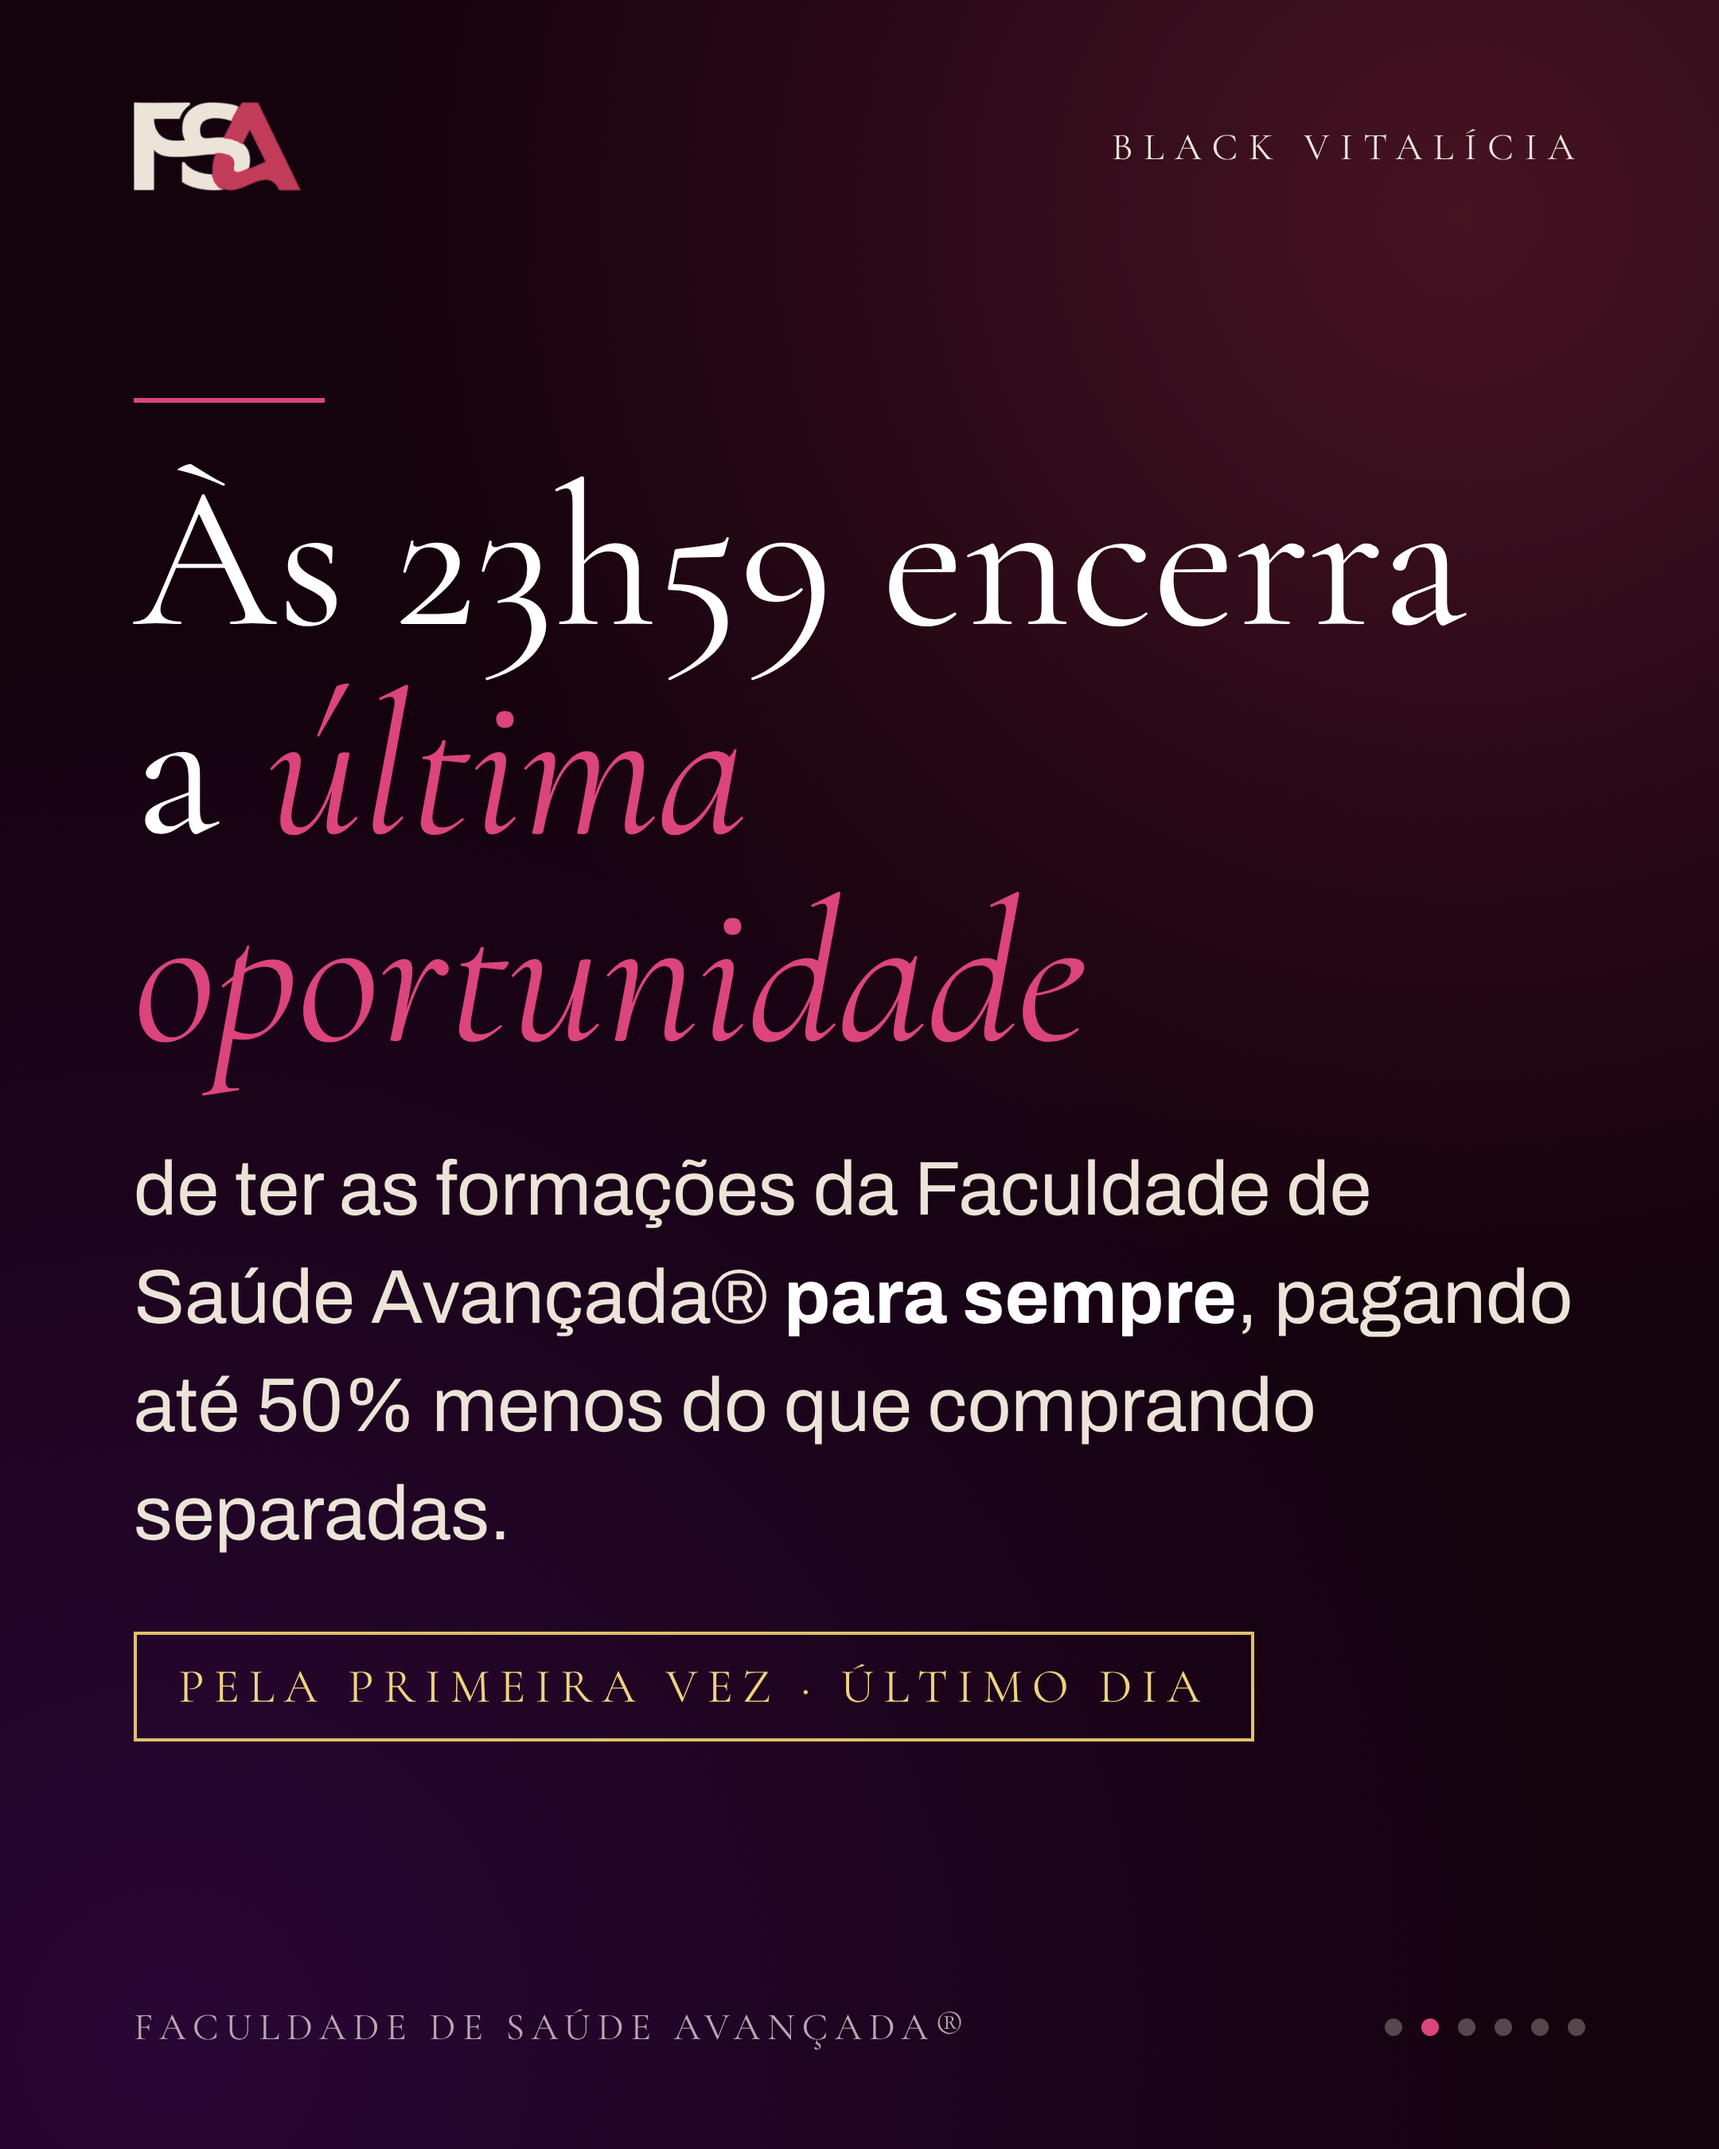
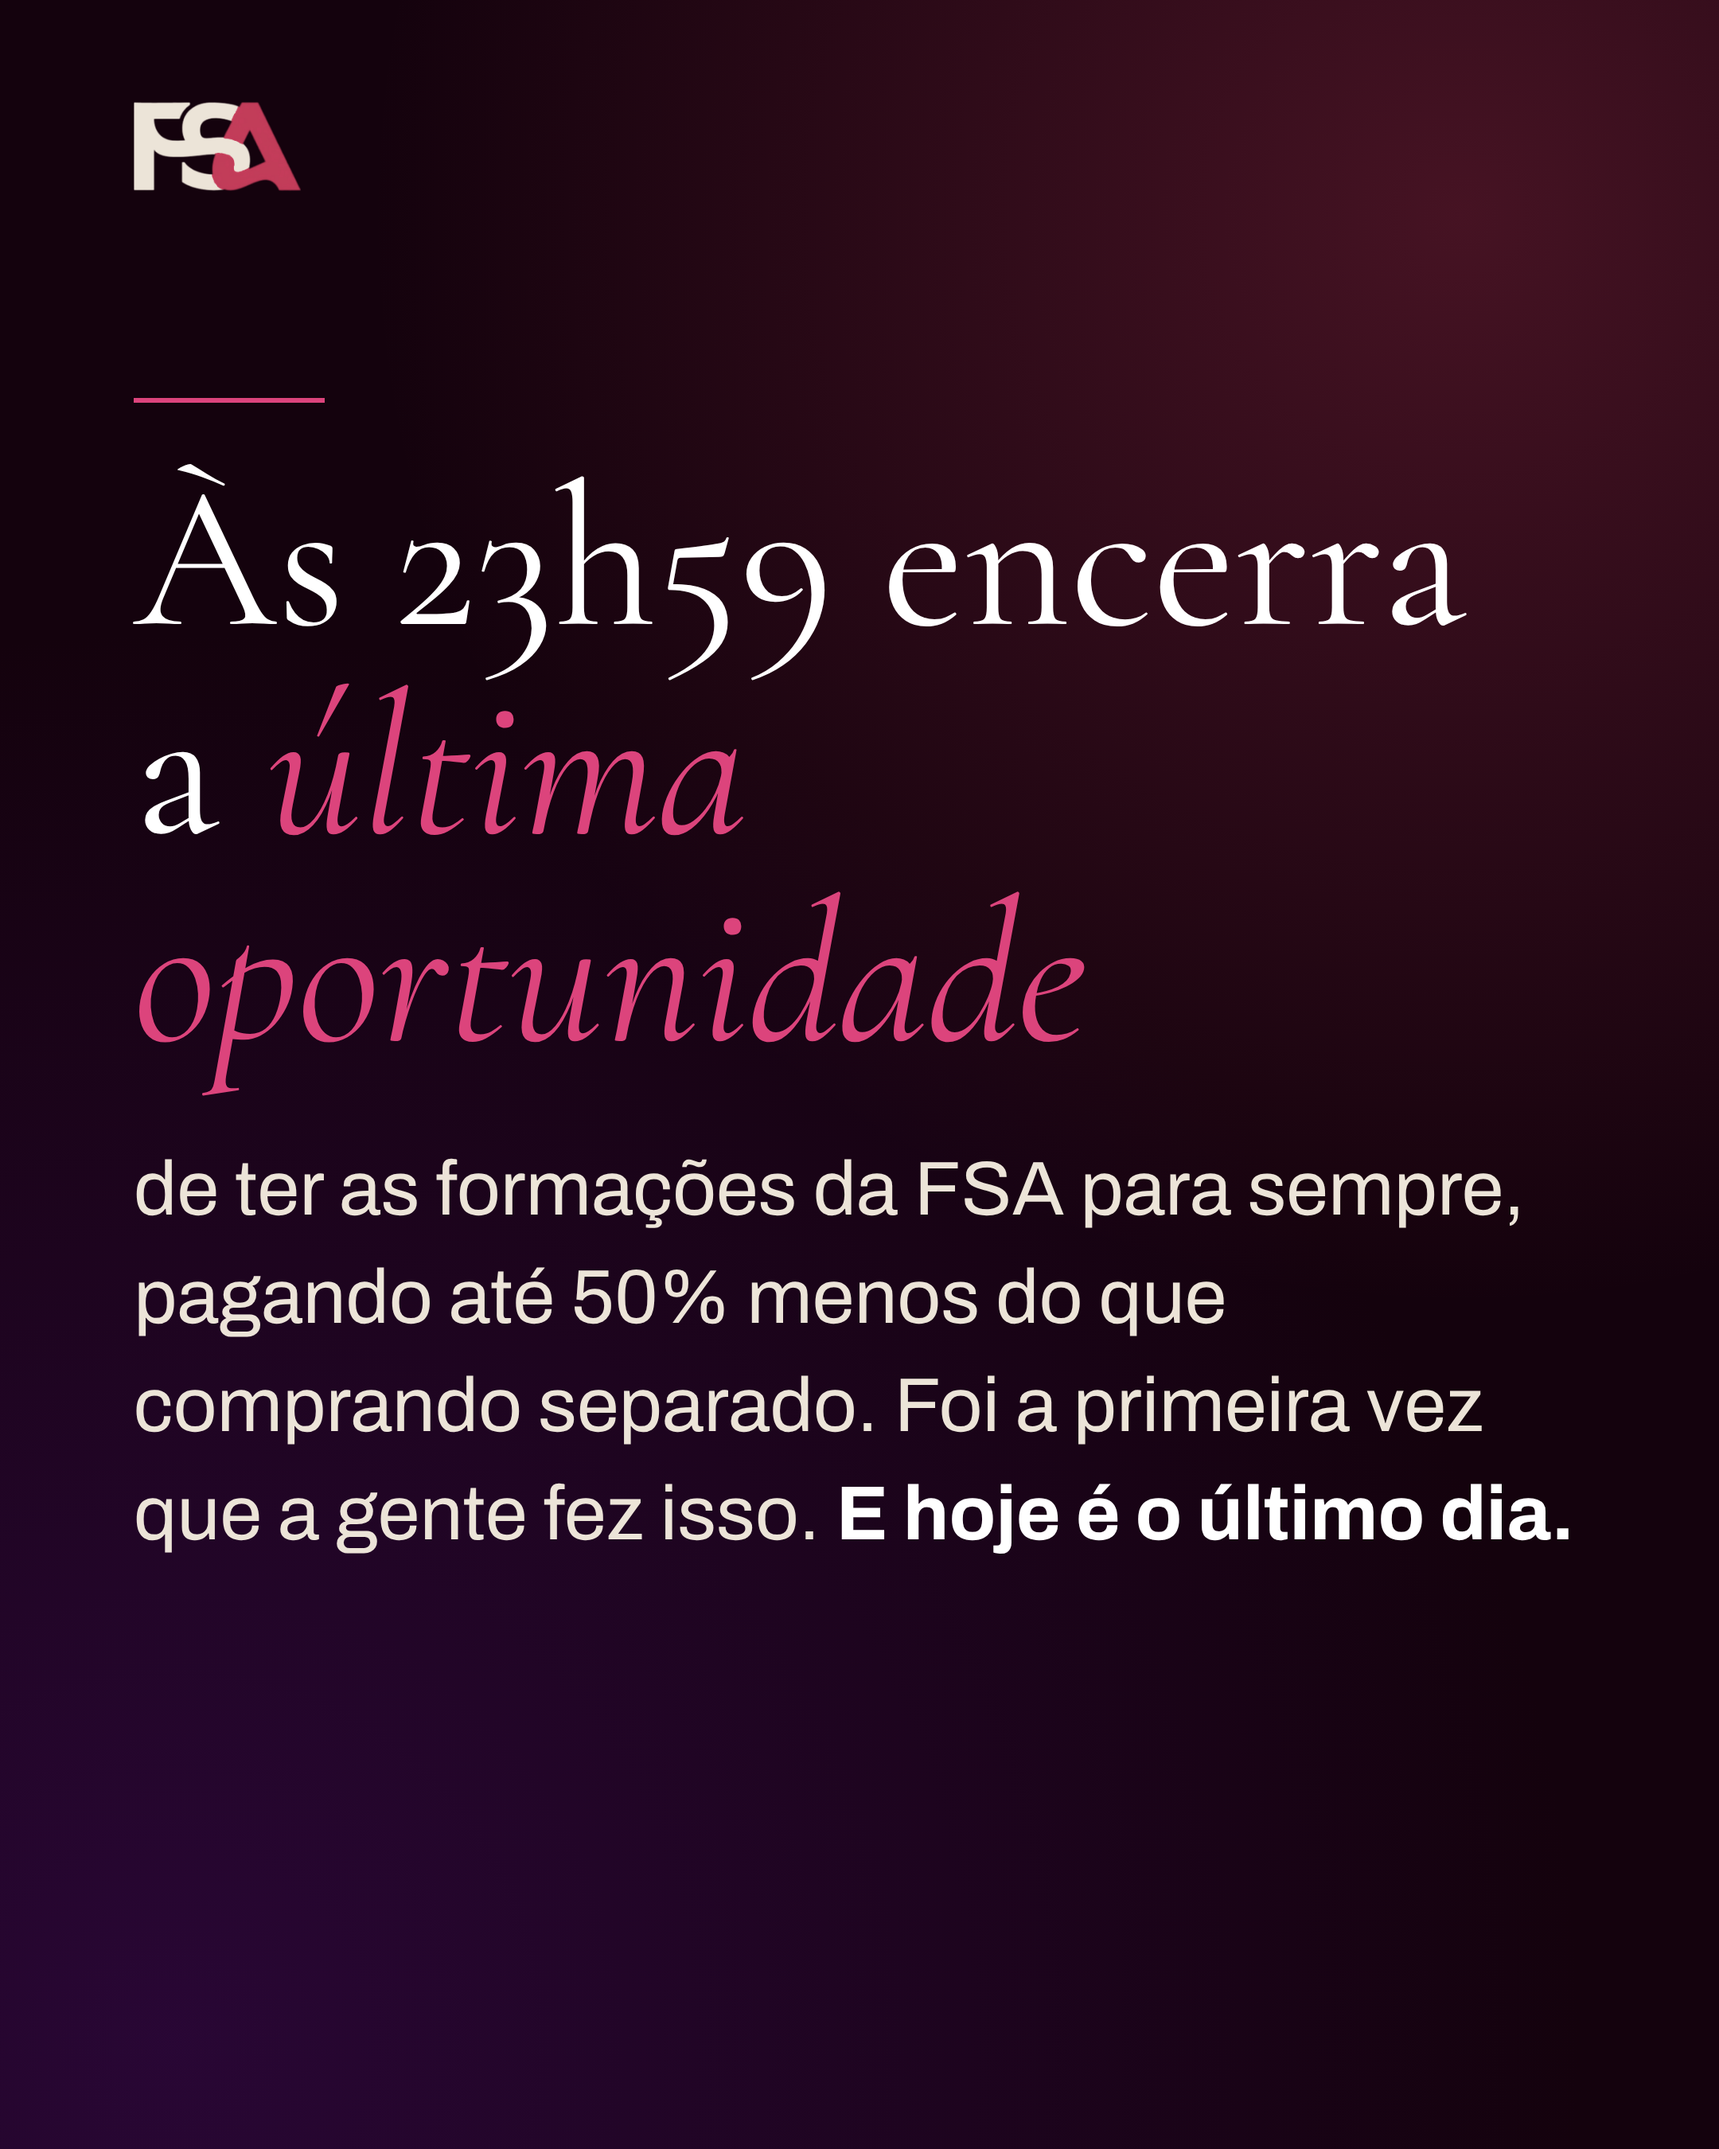
Carrossel último dia v2: sem textos pequenos, capa em destaque, textos mais humanos, CTA comenta BLACK FSA
Claude-Session: https://claude.ai/code/session_01KgesPtUiFaTyPjQzLX5smy

diff --git a/fsa/campanha-black/carrossel-ultimo-dia/v2/c.html b/fsa/campanha-black/carrossel-ultimo-dia/v2/c.html
@@ -23,16 +23,17 @@ p b{color:#fff}
 .dots{display:flex;gap:12px}.dots span{width:11px;height:11px;border-radius:50%;background:rgba(236,228,216,.3)}.dots span.on{background:#DC447C}
 .line{width:120px;height:3px;background:#DC447C;margin:0 0 34px}
 .txt{bottom:auto!important;top:250px}.txt h1{font-size:128px}.txt p{font-size:48px}
+.capa h1{-webkit-text-stroke:3.2px #fff;paint-order:stroke fill;letter-spacing:.01em}.capa h1 i{-webkit-text-stroke:3.2px #DC447C}
 </style></head><body>
-<div class="s"><div class="img" style="height:760px;background-image:url(cena.jpg)"></div><div class="top"><img src="logo-fsa-escuro.png"><span>Black Vitalícia</span></div>
-<div class="in big"><div class="pill">ATENÇÃO</div><h1>Hoje, às 23h59,<br>o nosso vitalício<br><i>morre.</i></h1></div><div class="foot"><span>Faculdade de Saúde Avançada®</span><div class="dots"><span class="on"></span><span class=""></span><span class=""></span><span class=""></span><span class=""></span><span class=""></span></div></div></div>
-<div class="s"><div class="top"><img src="logo-fsa-escuro.png"><span>Black Vitalícia</span></div><div class="in txt"><div class="line"></div><h1>Às 23h59 encerra<br>a <i>última oportunidade</i></h1>
-<p>de ter as formações da Faculdade de Saúde Avançada® <b>para sempre</b>, pagando até 50% menos do que comprando separadas.</p><div class="gold">Pela primeira vez · Último dia</div></div><div class="foot"><span>Faculdade de Saúde Avançada®</span><div class="dots"><span class=""></span><span class="on"></span><span class=""></span><span class=""></span><span class=""></span><span class=""></span></div></div></div>
-<div class="s"><div class="top"><img src="logo-fsa-escuro.png"><span>Black Vitalícia</span></div><div class="in txt"><div class="line"></div><h1>Amanhã,<br>o relógio <i>volta.</i></h1>
-<p>As formações voltam ao acesso de <b>1 ou 2 anos</b>. Quando o prazo acaba, estudar de novo significa comprar de novo.</p><div class="gold">A partir de domingo, 01/11</div></div><div class="foot"><span>Faculdade de Saúde Avançada®</span><div class="dots"><span class=""></span><span class=""></span><span class="on"></span><span class=""></span><span class=""></span><span class=""></span></div></div></div>
-<div class="s"><div class="img" style="height:700px;background-image:url(foto-aula.jpg)"></div><div class="top"><img src="logo-fsa-escuro.png"><span>Black Vitalícia</span></div>
-<div class="in"><h1>Sem prazo<br><i>correndo.</i></h1><p style="font-size:44px">Você garante hoje e começa quando puder. Em janeiro, um módulo por mês, ou daqui a três anos, <b>quando aquela paciente chegar.</b></p></div><div class="foot"><span>Faculdade de Saúde Avançada®</span><div class="dots"><span class=""></span><span class=""></span><span class=""></span><span class="on"></span><span class=""></span><span class=""></span></div></div></div>
-<div class="s"><div class="top"><img src="logo-fsa-escuro.png"><span>Black Vitalícia</span></div><div class="in txt" style="top:200px"><div class="line"></div><h1 style="font-size:118px">Na era do ChatGPT,<br>profundidade<br>é <i>raridade.</i></h1>
-<p style="font-size:44px">A inteligência artificial espalha um oceano de respostas com dois dedos de profundidade. Qualquer um molha os pés. Poucos sabem mergulhar até onde o exame, o sono, o intestino e a história de uma pessoa se encontram.</p></div><div class="foot"><span>Faculdade de Saúde Avançada®</span><div class="dots"><span class=""></span><span class=""></span><span class=""></span><span class=""></span><span class="on"></span><span class=""></span></div></div></div>
-<div class="s"><div class="img" style="height:640px;background-image:url(gabriel-fsa.jpg);background-position:center 25%"></div><div class="top"><img src="logo-fsa-escuro.png"><span>Black Vitalícia</span></div>
-<div class="in"><h1>Você tem até<br>as <i>23h59.</i></h1><p>Depois disso, não poderemos fazer mais nada. <b>Toque no link da bio.</b></p><p style="font-size:34px;margin-top:22px">Já é aluno? Coloque o seu e-mail na página e veja o seu valor. 15 dias de garantia incondicional.</p></div><div class="foot"><span>Faculdade de Saúde Avançada®</span><div class="dots"><span class=""></span><span class=""></span><span class=""></span><span class=""></span><span class=""></span><span class="on"></span></div></div></div></body></html>
+<div class="s"><div class="img" style="height:760px;background-image:url(cena.jpg)"></div><div class="top"><img src="logo-fsa-escuro.png"></div>
+<div class="in big capa" style="bottom:250px"><div class="pill">ATENÇÃO</div><h1>Hoje, às 23h59,<br>o nosso vitalício<br><i>morre.</i></h1></div></div>
+<div class="s"><div class="top"><img src="logo-fsa-escuro.png"></div><div class="in txt"><div class="line"></div><h1>Às 23h59 encerra<br>a <i>última oportunidade</i></h1>
+<p>de ter as formações da FSA para sempre, pagando até 50% menos do que comprando separado. Foi a primeira vez que a gente fez isso. <b>E hoje é o último dia.</b></p></div></div>
+<div class="s"><div class="top"><img src="logo-fsa-escuro.png"></div><div class="in txt" style="top:300px"><div class="line"></div><h1 style="font-size:150px">Amanhã,<br>o relógio <i>volta.</i></h1>
+<p style="font-size:54px">A partir de domingo, as formações voltam a ter acesso de <b>1 ou 2 anos</b>, como sempre foi.</p></div></div>
+<div class="s"><div class="img" style="height:700px;background-image:url(foto-aula.jpg)"></div><div class="top"><img src="logo-fsa-escuro.png"></div>
+<div class="in"><h1>Sem prazo<br><i>correndo.</i></h1><p style="font-size:44px">Garante hoje e começa quando der. Em janeiro, no seu ritmo, ou daqui a três anos, <b>quando aquela paciente sentar na sua frente.</b></p></div></div>
+<div class="s"><div class="top"><img src="logo-fsa-escuro.png"></div><div class="in txt" style="top:200px"><div class="line"></div><h1 style="font-size:118px">Na era do ChatGPT,<br>profundidade<br>é <i>raridade.</i></h1>
+<p style="font-size:44px">Hoje qualquer um joga a pergunta no ChatGPT e sai com uma resposta pronta. Mas quem está na frente da paciente é você. É você que precisa juntar o exame, o sono, o intestino e a história dela. <b>Quem sabe fazer isso, hoje, vale ouro.</b></p></div></div>
+<div class="s"><div class="img" style="height:640px;background-image:url(gabriel-fsa.jpg);background-position:center 25%"></div><div class="top"><img src="logo-fsa-escuro.png"></div>
+<div class="in"><h1>Você tem até<br>as <i>23h59.</i></h1><p>Depois disso, não tem mais o que a gente possa fazer. <b>Comenta BLACK FSA que a gente te manda o link.</b></p><p style="font-size:36px;margin-top:22px">Já é aluno? Coloca o seu e-mail na página e vê o seu valor. E você tem 15 dias de garantia.</p></div></div></body></html>
